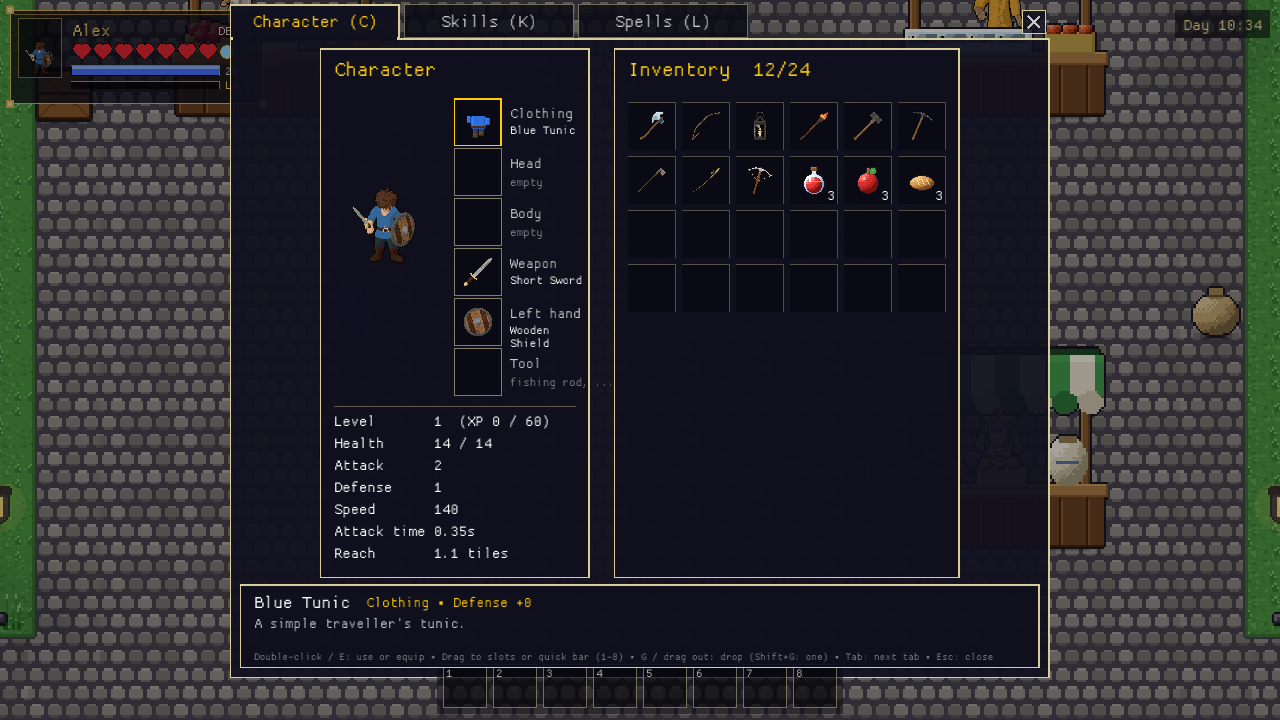
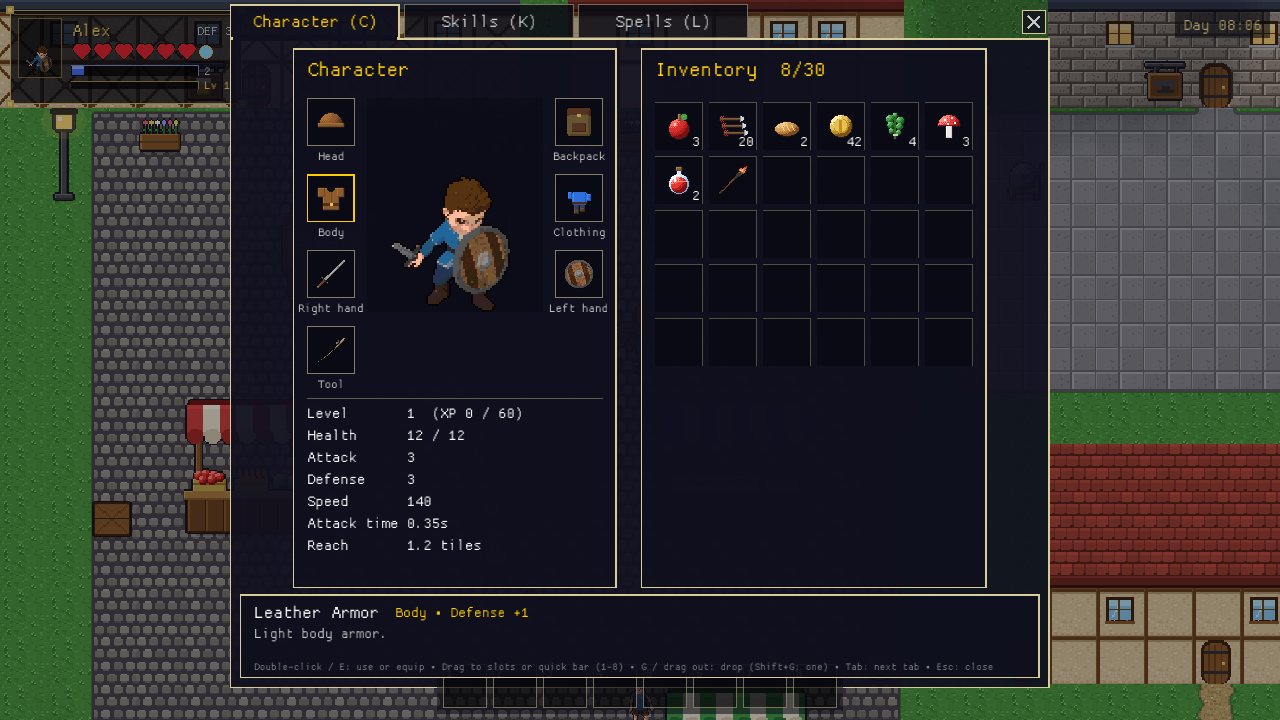
Character window: equipment slots around the figure
- The character sheet shows a bigger figure (3x) with the slots where things
  are worn: head, body armor, right hand and tool on the left (the figure
  faces the viewer), backpack, clothing and left hand on the right, a caption
  under each; a two-handed weapon shows faded in the left hand
- Arrows / d-pad move between the slots by position, right from the right
  column into the inventory and back
- Item names and numbers in the details line (hover or selection)
- New screenshot, manual (09, 15), CHANGELOG, a layout test

diff --git a/crates/engine/src/runtime/inventory_ui.rs b/crates/engine/src/runtime/inventory_ui.rs
@@ -12,7 +12,6 @@ use super::ui::{panel, slot_grid, slot_grid_size, DragState, SlotEvent, DETAIL_H
 use super::Game;
 use crate::defs::EquipSlot;
 use crate::inventory::{Inventory, ItemStack};
-use crate::render::wrap_text;
 use super::text::{draw_text, measure_text};
 
 
@@ -39,7 +38,34 @@ fn quick_rects() -> Vec<Rect> {
 }
 
 const EQUIP_SLOTS: [EquipSlot; 7] = [EquipSlot::Clothing, EquipSlot::Head, EquipSlot::Body, EquipSlot::Weapon, EquipSlot::Offhand, EquipSlot::Tool, EquipSlot::Back];
-const SHEET_W: f32 = 270.0;
+const SHEET_W: f32 = 324.0;
+
+/// Where an equipment slot sits around the figure (it faces the viewer: its right hand is on
+/// the left): (column 0 = left / 1 = right, row from the top).
+fn equip_cell(slot: EquipSlot) -> (usize, usize) {
+    match slot {
+        EquipSlot::Head => (0, 0),
+        EquipSlot::Body => (0, 1),
+        EquipSlot::Weapon => (0, 2),
+        EquipSlot::Tool => (0, 3),
+        EquipSlot::Back => (1, 0),
+        EquipSlot::Clothing => (1, 1),
+        EquipSlot::Offhand => (1, 2),
+    }
+}
+
+/// The index (in [`EQUIP_SLOTS`]) of the slot at a cell.
+fn equip_at(col: usize, row: usize) -> Option<usize> {
+    EQUIP_SLOTS.iter().position(|s| equip_cell(*s) == (col, row))
+}
+
+/// A slot's caption under it.
+fn equip_caption(slot: EquipSlot) -> &'static str {
+    match slot {
+        EquipSlot::Weapon => "Right hand",
+        s => s.label(),
+    }
+}
 
 #[derive(Default)]
 pub(super) struct InvUi {
@@ -173,11 +199,13 @@ fn grid_size(n: usize, cols: usize) -> Vec2 {
     slot_grid_size(n, cols)
 }
 
-/// Vertical distance of the equipment slots.
-const EQUIP_STEP: f32 = 50.0;
+/// Vertical distance of the equipment slots (a slot and its caption).
+const EQUIP_STEP: f32 = 76.0;
+/// The slots' first row below the panel's top (under its title).
+const EQUIP_TOP: f32 = 50.0;
 
 /// Height of the character sheet panel.
-const SHEET_H: f32 = 580.0;
+const SHEET_H: f32 = 540.0;
 
 /// Container panels are at least this wide (title + "Take all" button).
 const MIN_CONTAINER_W: f32 = 300.0;
@@ -281,7 +309,14 @@ impl Game {
                 let total = SHEET_W + 24.0 + size.x;
                 let top = c.y + super::charwin::MARGIN;
                 let x0 = (c.x + (c.w - total) / 2.0).round();
-                let slots = (0..EQUIP_SLOTS.len()).map(|k| Rect::new(x0 + 134.0, top + 50.0 + k as f32 * EQUIP_STEP, SLOT, SLOT)).collect();
+                let slots = EQUIP_SLOTS
+                    .iter()
+                    .map(|s| {
+                        let (col, row) = equip_cell(*s);
+                        let x = if col == 0 { x0 + PAD } else { x0 + SHEET_W - PAD - SLOT };
+                        Rect::new(x, top + EQUIP_TOP + row as f32 * EQUIP_STEP, SLOT, SLOT)
+                    })
+                    .collect();
                 grids.push(Grid { side: Side::Equip, title: "Character".into(), panel: Rect::new(x0, top, SHEET_W, h), slots, cols: 1 });
                 let mut g = make_grid(Side::Player, player_title, vec2(x0 + SHEET_W + 24.0, top), cap, cols);
                 g.panel.h = h;
@@ -636,26 +671,45 @@ impl Game {
                 let mut j = i as i32;
                 let left = input::act_pressed(Act::Left);
                 let right = input::act_pressed(Act::Right);
+                let (up, down) = (input::act_pressed(Act::Up), input::act_pressed(Act::Down));
                 // Hop between the character sheet and the inventory grid.
                 if side == Side::Player && left && i % g.cols == 0 && layout.grid(Side::Equip).is_some() {
-                    self.inv.sel = Some((Side::Equip, (i / g.cols).min(EQUIP_SLOTS.len() - 1)));
+                    self.inv.sel = equip_at(1, (i / g.cols).min(2)).map(|k| (Side::Equip, k));
                     return (true, true);
                 }
-                if side == Side::Equip && right {
-                    self.inv.sel = Some((Side::Player, i * cols_of(&layout, Side::Player)));
-                    return (true, true);
-                }
-                if left {
-                    j -= 1;
-                }
-                if right {
-                    j += 1;
-                }
-                if input::act_pressed(Act::Up) {
-                    j -= c;
-                }
-                if input::act_pressed(Act::Down) {
-                    j += c;
+                if side == Side::Equip {
+                    // Around the figure: by position; right of the right column is the inventory.
+                    let (col, row) = equip_cell(EQUIP_SLOTS[i]);
+                    let to = if right && col == 1 {
+                        let cols = cols_of(&layout, Side::Player);
+                        let cap = self.world.inventory.capacity().max(1);
+                        self.inv.sel = Some((Side::Player, (row * cols).min(cap - 1)));
+                        return (true, true);
+                    } else if right {
+                        equip_at(1, row).or_else(|| equip_at(1, 2))
+                    } else if left && col == 1 {
+                        equip_at(0, row)
+                    } else if up {
+                        row.checked_sub(1).and_then(|r| equip_at(col, r))
+                    } else if down {
+                        equip_at(col, row + 1)
+                    } else {
+                        None
+                    };
+                    j = to.unwrap_or(i) as i32;
+                } else {
+                    if left {
+                        j -= 1;
+                    }
+                    if right {
+                        j += 1;
+                    }
+                    if up {
+                        j -= c;
+                    }
+                    if down {
+                        j += c;
+                    }
                 }
                 self.inv.sel = Some((side, j.clamp(0, n - 1) as usize));
                 let i = self.inv.sel.unwrap().1;
@@ -826,7 +880,11 @@ impl Game {
     /// Character sheet: portrait, equipment slots and stats.
     fn draw_sheet(&self, g: &Grid, hover: Option<(Side, usize)>, dragging: Option<(Side, usize)>) {
         let p = g.panel;
-        self.draw_portrait(Rect::new(p.x + PAD, p.y + 50.0, 104.0, 168.0));
+        // The figure between the two columns of slots, as tall as three rows.
+        let fig_x = p.x + PAD + SLOT + 12.0;
+        let fig = Rect::new(fig_x, p.y + EQUIP_TOP, p.x + p.w - PAD - SLOT - 12.0 - fig_x, 3.0 * EQUIP_STEP - 14.0);
+        draw_rectangle(fig.x, fig.y, fig.w, fig.h, Color::new(0.0, 0.0, 0.0, 0.18));
+        self.draw_portrait(fig);
         for (k, r) in g.slots.iter().enumerate() {
             let key = (Side::Equip, k);
             let selected = self.inv.sel == Some(key);
@@ -834,26 +892,21 @@ impl Game {
             draw_rectangle(r.x, r.y, r.w, r.h, bg);
             draw_rectangle_lines(r.x, r.y, r.w, r.h, if selected { 3.0 } else { 1.5 }, if selected { GOLD } else { Color::new(0.85, 0.8, 0.6, 0.6) });
             let slot = EQUIP_SLOTS[k];
-            draw_text(slot.label(), r.x + r.w + 8.0, r.y + 20.0, 18.0, LIGHTGRAY);
-            match self.world.equipment.get(slot).and_then(|s| self.project.db.item(&s.item)) {
-                Some(d) => {
-                    let tint = if dragging == Some(key) { Color::new(1.0, 1.0, 1.0, 0.3) } else { WHITE };
-                    self.assets.draw_frame_in(&d.icon.sheet, d.icon.frame, Rect::new(r.x + 8.0, r.y + 8.0, 32.0, 32.0), tint);
-                    for (n, line) in wrap_text(&d.name, 15, 80.0).iter().take(2).enumerate() {
-                        draw_text(line, r.x + r.w + 8.0, r.y + 36.0 + n as f32 * 13.0, 15.0, WHITE);
-                    }
-                }
-                None => {
-                    let hint = match slot {
-                        EquipSlot::Weapon => "bare hands",
-                        EquipSlot::Offhand if self.two_handed_equipped() => "(two-handed)",
-                        EquipSlot::Offhand => "shield / light",
-                        EquipSlot::Tool => "fishing rod, ...",
-                        _ => "empty",
-                    };
-                    draw_text(hint, r.x + r.w + 8.0, r.y + 38.0, 15.0, GRAY);
+            let item = self.world.equipment.get(slot).and_then(|s| self.project.db.item(&s.item));
+            if let Some(d) = item {
+                let tint = if dragging == Some(key) { Color::new(1.0, 1.0, 1.0, 0.3) } else { WHITE };
+                self.assets.draw_frame_in(&d.icon.sheet, d.icon.frame, Rect::new(r.x + 8.0, r.y + 8.0, 32.0, 32.0), tint);
+            } else if slot == EquipSlot::Offhand && self.two_handed_equipped() {
+                // A two-handed weapon fills the left hand too: shown faded there.
+                if let Some(d) = self.world.equipment.item(EquipSlot::Weapon).and_then(|id| self.project.db.item(id)) {
+                    self.assets.draw_frame_in(&d.icon.sheet, d.icon.frame, Rect::new(r.x + 8.0, r.y + 8.0, 32.0, 32.0), Color::new(1.0, 1.0, 1.0, 0.3));
                 }
             }
+            // The caption under it (the item's name and numbers are in the details line).
+            let caption = equip_caption(slot);
+            let w = measure_text(caption, None, 15, 1.0).width;
+            let colour = if item.is_some() { LIGHTGRAY } else { GRAY };
+            draw_text(caption, (r.x + r.w / 2.0 - w / 2.0).round(), r.y + r.h + 14.0, 15.0, colour);
         }
         let st = self.stats();
         let hp = self.hp();
@@ -870,7 +923,7 @@ impl Game {
             let (have, need) = self.xp_progress();
             lines.insert(0, format!("Level       {}  (XP {have} / {need})", self.world.player_level()));
         }
-        let y0 = p.y + 50.0 + EQUIP_SLOTS.len() as f32 * EQUIP_STEP + 20.0;
+        let y0 = p.y + EQUIP_TOP + 4.0 * EQUIP_STEP + 8.0;
         draw_line(p.x + PAD, y0 - 12.0, p.x + p.w - PAD, y0 - 12.0, 1.0, Color::new(0.85, 0.8, 0.6, 0.4));
         for (n, l) in lines.iter().enumerate() {
             draw_text(l, p.x + PAD, y0 + 8.0 + n as f32 * 22.0, 19.0, WHITE);
@@ -1000,4 +1053,25 @@ impl Game {
 /// The quick bar key (1-8) pressed this frame, if any.
 pub(super) fn quick_key_pressed() -> Option<usize> {
     Act::QUICK.iter().position(|a| input::act_pressed(*a))
+}
+
+#[cfg(test)]
+mod paperdoll_tests {
+    use super::*;
+
+    #[test]
+    fn every_slot_has_its_own_place_around_the_figure() {
+        let cells: Vec<_> = EQUIP_SLOTS.iter().map(|s| equip_cell(*s)).collect();
+        for (k, c) in cells.iter().enumerate() {
+            assert!(!cells[..k].contains(c), "{:?} shares {c:?}", EQUIP_SLOTS[k]);
+            assert_eq!(equip_at(c.0, c.1), Some(k));
+        }
+        // The figure faces the viewer: its right hand (the weapon) is on the left, at the same
+        // height as the left hand's item; the head is at the top.
+        assert_eq!(equip_cell(EquipSlot::Weapon), (0, 2));
+        assert_eq!(equip_cell(EquipSlot::Offhand), (1, 2));
+        assert_eq!(equip_cell(EquipSlot::Head).1, 0);
+        // Every slot of the game is in the window.
+        assert!(EquipSlot::ALL.iter().all(|s| EQUIP_SLOTS.contains(s)));
+    }
 }

diff --git a/Documentation/manual/09-gameplay.md b/Documentation/manual/09-gameplay.md
@@ -166,8 +166,11 @@ spell*, *Add mana*, *Damage around player*, *Light around player*.
 ![The character window](../images/game-character.webp)
 
 - The **inventory** has as many slots as *Database › Project › Inventory slots* says; each item has
-  a stack size. The character window (C or I) shows it next to the equipment slots (clothing, head,
-  body, weapon, left hand, tool, backpack), a portrait in the current gear and live stats.
+  a stack size. The character window (C or I) shows it next to the character sheet: the player's
+  figure in the current gear with the equipment slots around it where things are worn (head, body
+  armor, right hand and tool on the left, as the figure faces you; backpack, clothing and left hand
+  on the right; a two-handed weapon shows faded in the left hand too), and live stats below. A
+  selected or hovered slot's item is described in the line at the bottom.
 - **Backpacks** go into the *Backpack* slot and show on the character's back; while worn the
   inventory has the backpack's extra slots (*Extra inventory slots* on the item). Taking one off, or
   changing it for a smaller one, moves what lies in the slots that go away into free slots; when

diff --git a/CHANGELOG.md b/CHANGELOG.md
@@ -31,6 +31,11 @@ All notable changes to R(ust)PG2D (formerly rust2d) (engine, game runner and edi
   (`<Pictures>/<game>/`, else beside the save games; the web game offers a download). Exported
   Flatpaks may write to the Pictures folder. `status` prints `photo=`.
 
+- **Character window**: the equipment slots sit around a bigger figure of the player where things
+  are worn (head and body armor, right hand and tool on the left as the figure faces you; backpack,
+  clothing and left hand on the right; a two-handed weapon shows faded in the left hand). Arrows and
+  the d-pad move between them by position; item names and numbers are in the details line.
+
 ### Events and scripts
 - New action **Rush to (fighters)** and script function `rush_to(target, to)`: a character with
   *Chase* behaviour runs to where another character (or the player) is, following them for 15 s,

diff --git a/Documentation/manual/15-players-guide.md b/Documentation/manual/15-players-guide.md
@@ -35,8 +35,9 @@ with E or a right-click.
 
 ### In the windows
 
-- **Character window**: arrows or a click select; Enter, a double-click or a right-click uses or
-  equips; drag items onto or off the equipment slots, onto the quick bar, or out of the window to
+- **Character window**: arrows or a click select (on the character sheet the arrows move between
+  the slots around the figure, right from the right column into the inventory); Enter, a
+  double-click or a right-click uses or equips; drag items onto or off the equipment slots, onto the quick bar, or out of the window to
   drop them; G drops the selected stack (Shift+G one item). A **backpack** in the *Backpack* slot
   gives you more inventory slots; to take it off, first make room for what lies in its slots.
 - **Shop**: click *Buy* or *Sell* (or double-click a row, or Enter / E) to trade one, Shift for ten;
